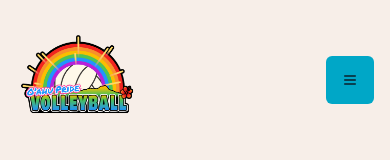
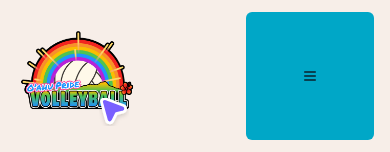
Adjust mobile header height and hamburger menu size for better navigation
Update Navigation.tsx to shorten the mobile header by adjusting py-4 to py-3 and increase hamburger menu size by changing button and icon dimensions.

Replit-Commit-Author: Agent
Replit-Commit-Session-Id: 3eb859d8-fbef-41ca-b339-c72610b544ce
Replit-Commit-Checkpoint-Type: full_checkpoint
Replit-Commit-Screenshot-Url: https://storage.googleapis.com/screenshot-production-us-central1/d66126b3-8f82-49a4-a16f-17d8cff2e1ab/3eb859d8-fbef-41ca-b339-c72610b544ce/x6awHYG

Changed region(s): [[0.6154, 0.0789, 0.9846, 0.9211], [0.0308, 0.5, 0.3385, 0.7895], [0.0615, 0.2105, 0.3385, 0.4737]]

diff --git a/client/src/components/Navigation.tsx b/client/src/components/Navigation.tsx
@@ -25,7 +25,7 @@ export default function Navigation() {
       className="bg-background shadow-sm sticky top-0 z-40 transition-all duration-300 ease-in-out"
     >
       <div className="max-w-screen-xl mx-auto px-4 sm:px-6 lg:px-8">
-        <div className="flex items-center justify-between py-4">
+        <div className="flex items-center justify-between py-3 md:py-4">
           
           {/* Logo */}
           <div className="flex-shrink-0">
@@ -101,11 +101,11 @@ export default function Navigation() {
               <SheetTrigger asChild>
                 <Button 
                   variant="ghost" 
-                  className="h-12 w-12 lg:h-9 lg:w-9"
+                  className="h-32 w-32 lg:h-9 lg:w-9"
                   aria-label="Open menu"
                   data-testid="button-hamburger-menu"
                 >
-                  <Menu className="h-8 w-8 lg:h-6 lg:w-6" />
+                  <Menu className="h-20 w-20 lg:h-6 lg:w-6" />
                 </Button>
               </SheetTrigger>
               <SheetContent side="right" className="w-72" aria-describedby={undefined}>
